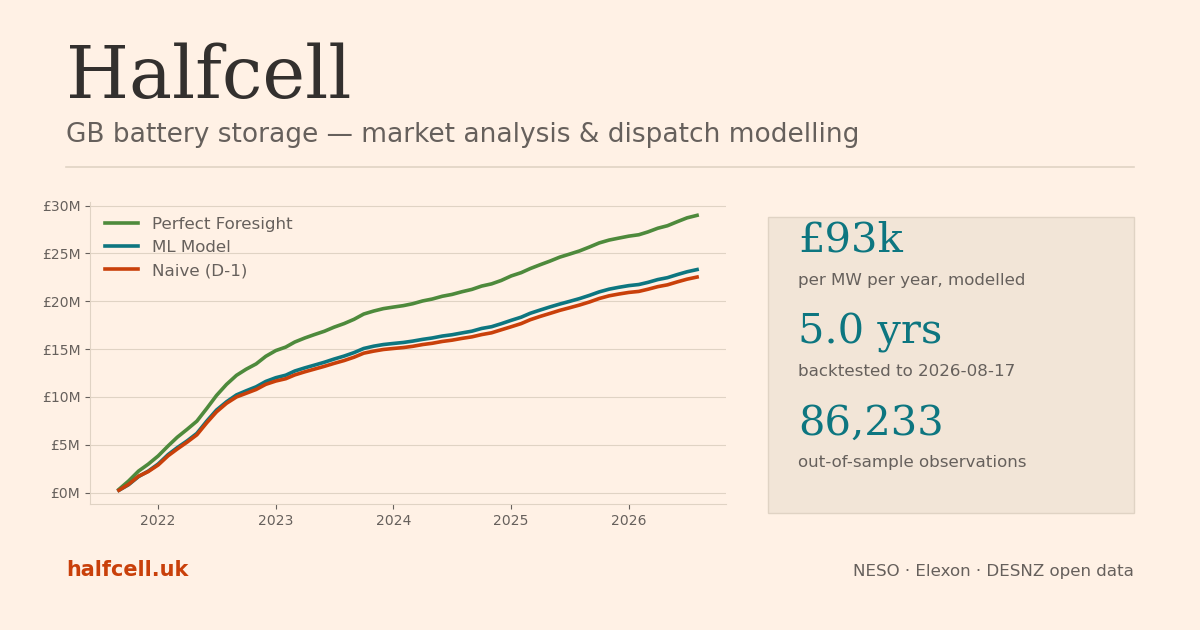
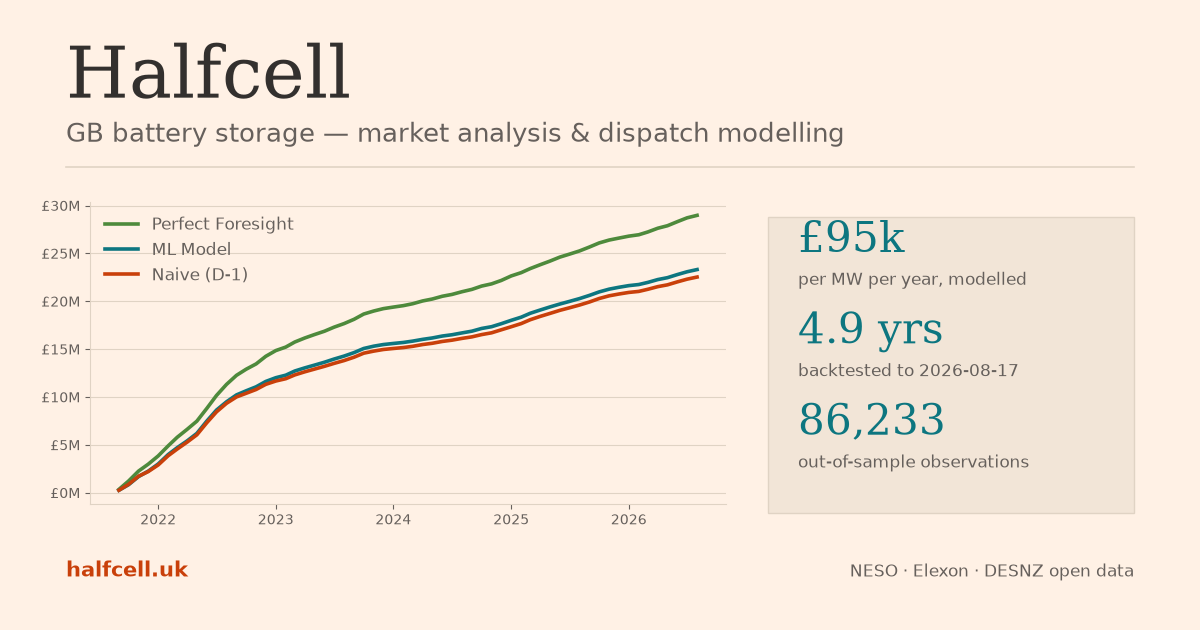
Annualise on days backtested, and say what the foresight ratio is not
Four corrections found in an audit of the methodology page.

Annualisation divided by months touched (len(monthly)/12), so a window
running 2021-09-16 to 2026-08-17 counted two part-months as whole ones and
divided 1797 days of revenue by 5.00 years instead of 4.92. Every published
figure was about 1.6% low. run_strategy now passes the days it actually
backtested and the divisor is days/365.25, with days_covered recorded in the
summary; the site's interactive page counts the same days, clipping each
month to the backtest window rather than assuming whole months. The cache
manifest's derived fields and the OG card are regenerated; totals, breakdowns
and params are untouched, and every ratio is unchanged because the bias was
uniform. ML minus naive now reads £3.18k/MW/yr from the manifest, matching
what the daily block bootstrap already reported independently.

compare_offer_valuation.py keeps the month-count divisor, now documented: its
runs all share a window, so the bias cancels exactly in the comparisons and
ratios it publishes, and changing it would mean re-running every backtest
behind the committed reports for no change in any conclusion.

The foresight ratio was measured against "70-85% in the literature", which
is uncited and is not the same measurement. The industry's Percent of
Perfect subtracts no floor; on it this model scores 80.5% on the full stack
and 50.1% on arbitrage alone. The naive floor alone scores 77.8%, which is
[…]

diff --git a/src/analysis/revenue_stack.py b/src/analysis/revenue_stack.py
@@ -432,6 +432,7 @@ def _build_result(
     avg_arb_mw: float,
     soc_traj: list,
     extras: dict | None = None,
+    days_covered: int | None = None,
 ) -> dict:
     """
     Merge ancillary and arbitrage monthly streams, apply availability factor,
@@ -465,7 +466,11 @@ def _build_result(
     monthly["cycling_cost"]  = monthly[cost_cols].sum(axis=1) if cost_cols else 0.0
     monthly["net_revenue"]   = monthly["gross_revenue"] - monthly["cycling_cost"]
 
-    years     = len(monthly) / 12
+    # Days actually backtested, not months touched. A window that starts on the 16th
+    # and ends on the 17th contributes two part-months of revenue; counting them as
+    # two whole months divides that revenue by more time than it earned in, which put
+    # every annualised figure about 1.6% low over the published 2021-2026 window.
+    years     = (days_covered / 365.25) if days_covered else len(monthly) / 12
     net_total = monthly["net_revenue"].sum()
 
     breakdown = {}
@@ -478,6 +483,7 @@ def _build_result(
         "total_cycling_cost": round(monthly["cycling_cost"].sum(), 0),
         "total_net":          round(net_total, 0),
         "years_covered":      round(years, 2),
+        "days_covered":       int(days_covered) if days_covered else None,
         "annualised_net":     round(net_total / years, 0) if years > 0 else 0,
         "annualised_per_mw":  round(net_total / years / battery.power_mw, 0) if years > 0 and battery.power_mw > 0 else 0,
         "breakdown":          breakdown,
@@ -1296,7 +1302,8 @@ def run_strategy(
         "plan_smoothing":      plan_smoothing,
         "dispatch_smoothing":  dispatch_smoothing,
     }
-    result = _build_result(anc_wide, imb_wide, battery, avg_fr_mw, avg_arb_mw, soc_traj, extras)
+    result = _build_result(anc_wide, imb_wide, battery, avg_fr_mw, avg_arb_mw, soc_traj, extras,
+                           days_covered=len(dates))
     result["schedule"] = schedule
     result["daily"] = daily_revenue
     return result

diff --git a/tests/test_revenue_stack.py b/tests/test_revenue_stack.py
@@ -488,3 +488,21 @@ def test_lp_valued_offers_keep_free_the_side_trading_needs_at_each_hour():
     assert formula.loc[morning, "q_DCH"].tolist() == pytest.approx(formula.loc[evening, "q_DCH"].tolist())
     assert lp.loc[morning, "q_DCH"].sum() < lp.loc[evening, "q_DCH"].sum()
     assert lp.loc[evening, "q_DCL"].sum() < lp.loc[morning, "q_DCL"].sum()
+
+
+def test_annualisation_divides_by_days_backtested_not_months_touched():
+    """
+    A window that starts or ends mid-month contributes a part-month of revenue.
+    Counting the months touched would divide that revenue by more time than it
+    earned in — the five-day window below spans one month, so a month-count
+    divisor would annualise it as a twelfth of a year instead of 5/365.25,
+    understating £/MW/yr by a factor of about 6.
+    """
+    auctions, market = _auctions({d: {"DCL": 10.0} for d in DAYS}), _market_index(DAYS)
+    summary = run_backtest(auctions, market, BATTERY)["summary"]
+
+    assert summary["days_covered"] == len(DAYS)
+    assert summary["years_covered"] == pytest.approx(len(DAYS) / 365.25, abs=0.005)
+    assert summary["annualised_net"] == pytest.approx(
+        summary["total_net"] / (len(DAYS) / 365.25), rel=1e-3)
+    assert summary["annualised_per_mw"] == pytest.approx(summary["annualised_net"] / P, rel=1e-3)

diff --git a/scripts/compare_offer_valuation.py b/scripts/compare_offer_valuation.py
@@ -178,6 +178,11 @@ def split_revenue(monthly: pd.DataFrame, power_mw: float, select_before: str) ->
                        ("selection", months < pd.Timestamp(select_before)),
                        ("confirmation", months >= pd.Timestamp(select_before))):
         m = monthly[mask.to_numpy()]
+        # Months, not days: the first and last are partial, so this runs about 1.6%
+        # low against revenue_stack's day-based divisor. Every run in a report shares
+        # the window, so the bias scales all of them alike and cancels exactly in the
+        # comparisons and foresight ratios below. Left as is to keep the committed
+        # reports comparable without re-running every backtest behind them.
         years = len(m) / 12
         if years == 0:
             out[half] = None

diff --git a/site/src/methodology.md b/site/src/methodology.md
@@ -350,8 +350,13 @@ morning, and the hourly day-ahead auctions for D have already cleared (results b
 model uses neither, so its offer-stage information is conservative.
 
 The **foresight ratio** measures how much of the gap between those two bounds a forecast
-closes: `(ML − Naive) / (Perfect Foresight − Naive)`, on net revenue. Published GB and
-European price-forecasting literature treats 70–85% as strong performance.
+closes: `(ML − Naive) / (Perfect Foresight − Naive)`, on net revenue. The industry's usual
+measure is a different one — Percent of Perfect, revenue as a share of perfect foresight with
+no floor subtracted — on which this model scores 80.5% across the full stack and 50.1% on
+arbitrage alone. The harder ratio is reported here because on a stacked battery Percent of
+Perfect says very little: reusing the last complete day's prices already scores 77.8%, since
+most of the revenue is frequency response availability that no forecast moves. Subtracting the
+floor asks the narrower question of how much of the *capturable* gap a forecast closes.
 
 Three things have moved this number, and all are worth knowing about.
 
@@ -372,10 +377,11 @@ worth about £4k/MW/yr to naive and £1k to the model. The model's lead over nai
 £4.1k to £3.2k while the ceiling pulled away, and the ratio fell to about 12%. A better engine
 made the forecast matter less; it did not make the forecast worse.
 
-Published figures of 70–85% come from studies forecasting day-ahead auction prices over
-shorter, calmer windows, usually scored on pure arbitrage rather than a co-optimisation
-against frequency response contracts. The honest headline here is that the forecast is worth
-about £3k/MW/yr over the floor, in every year of the backtest, against a ceiling £26k above it.
+On the arbitrage-only footing, which is the closest thing to what a price-forecasting study
+scores, Percent of Perfect is 50.1% against the naive floor's 37.9% — a real gap, and a
+smaller one than the capture rates such studies usually report. The honest headline is that
+the forecast is worth about £3k/MW/yr over the floor, in every year of the backtest, against a
+ceiling £26k above it.
 
 **How much of that is noise?** Enough of it is not. Resampling the paired daily revenue
 differences in four-week blocks — blocks, because a dispatch decision carries state into the
@@ -628,9 +634,13 @@ accuracy column and earns £19k/MW/yr *less than reusing yesterday's prices*.
 The cause is calibration in the one dimension dispatch consumes. LEAR over-predicts the daily
 price spread by £272/MWh across the backtest and by £29.5 even in the calm recent market, while
 the trees under-predict it — Random Forest by £31.5. For a price-taker battery that asymmetry
-is protective. A spread that fails to materialise costs money twice: once in the trade itself,
-and again at the offer stage, where an inflated shadow arbitrage value makes the model decline
-frequency response contracts worth having. Over 2025 onward, LEAR held 23 MW of Low products
+is protective. A spread that fails to materialise does its damage at the offer stage, where an
+inflated shadow arbitrage value makes the model decline frequency response contracts worth
+having; dispatch is barely touched, because it trades on the *ordering* of periods and settles
+at whatever the price turns out to be (see
+[why only the offer](#scepticism-in-the-offer-the-optimisers-curse)). What over-prediction
+costs there is the extra cycling it talks the optimiser into, when a spread it expected to
+clear wear and round-trip losses does not. Over 2025 onward, LEAR held 23 MW of Low products
 against Random Forest's 30, sat out 30% of EFA blocks against 12%, and gave up £0.71M of
 availability revenue to gain £0.07M of trading revenue while cycling 48% more energy.
 
@@ -671,9 +681,9 @@ split reads:
 
 | £k / MW / yr, current engine | Frequency response | Trading | Wear | Net |
 |---|---|---|---|---|
-| Perfect foresight | 50.7 | 68.4 | −3.2 | 115.9 |
-| Naive | 57.5 | 35.2 | −2.5 | 90.1 |
-| ML model | 59.6 | 35.9 | −2.2 | 93.3 |
+| Perfect foresight | 51.6 | 69.5 | −3.3 | 117.8 |
+| Naive | 58.4 | 35.7 | −2.5 | 91.6 |
+| ML model | 60.6 | 36.5 | −2.3 | 94.8 |
 
 The model now edges naive at trading (+£0.7k) but still earns most of its lead through
 response (+£2.1k), and the whole of perfect foresight's advantage is still trading.

diff --git a/README.md b/README.md
@@ -19,14 +19,22 @@ Annualised net revenue per MW:
 
 | Strategy | Full stack | Arbitrage only | What it represents |
 |---|---|---|---|
-| Perfect Foresight | £115.9k | £62.5k | Theoretical ceiling; requires knowing day-D prices |
-| **ML (Random Forest)** | **£93.3k** | **£31.3k** | Realistic case: every forecast out-of-sample, from data that existed at each decision |
-| Naive (last complete day) | £90.1k | £23.7k | The floor; any real forecast must beat it |
-| FR only | £82.2k | — | A site that ignores arbitrage entirely |
+| Perfect Foresight | £117.8k | £63.5k | Theoretical ceiling; requires knowing day-D prices |
+| **ML (Random Forest)** | **£94.8k** | **£31.8k** | Realistic case: every forecast out-of-sample, from data that existed at each decision |
+| Naive (last complete day) | £91.6k | £24.1k | The floor; any real forecast must beat it |
+| FR only | £83.5k | — | A site that ignores arbitrage entirely |
 
 - **Foresight ratio 12%** — the share of the naive-to-perfect gap the forecast closes,
   `(ML − Naive) / (PF − Naive)`. It sits at 10% through the 2021–22 gas crisis and 14% from
-  2023 onward, and the forecast beats naive in every year of the backtest.
+  2023 onward, and the forecast beats naive in every year of the backtest. The industry's
+  usual measure, Percent of Perfect, subtracts no floor and reads 80.5% here — but the naive
+  floor alone reads 77.8% on it, which is why the harder ratio is the one reported.
+- **The money is significant; the accuracy is not.** Resampling the paired daily revenue
+  differences in four-week blocks puts the forecast's lead at £3.18k/MW/yr, 95% interval
+  £2.05k to £4.37k, and £1.79k [£0.88k, £2.76k] on the folds from 2025 alone. Its accuracy
+  edge over persistence is not distinguishable from noise: Diebold-Mariano returns p = 0.26 on
+  squared error and p = 0.19 on the error in the day's spread. What the forecast is worth, it
+  earns through capacity allocation rather than through precision.
 - **Offers are priced by planning the day.** Each day's response offers are chosen together
   with a half-hourly trading plan, so a MW held back costs what it takes out of that plan.
   That replaced a block-by-block estimate and added £7–12k/MW/yr to every strategy — more
@@ -37,8 +45,8 @@ Annualised net revenue per MW:
   period, which put this same ratio at 66% — the gap between those two numbers is what
   in-sample forecasting is worth, and it is not small. Forecasts are also used only once the
   data behind them exists: offers made at 14:00 on the day before see data to two days before.
-- **Frequency response dominates the stack.** FR only earns £82.2k of the ML strategy's
-  £93.3k, so arbitrage is the margin rather than the business — and what the forecast adds
+- **Frequency response dominates the stack.** FR only earns £83.5k of the ML strategy's
+  £94.8k, so arbitrage is the margin rather than the business — and what the forecast adds
   still arrives mostly through better capacity allocation, not better trading.
 - **The battery stays compliant.** It starts 0.4–0.6% of settlement periods outside the
   state-of-energy range its contracts require, and almost every one is a single half-hour at
@@ -143,7 +151,7 @@ half-hourly delivery table is committed.
 
 ```bash
 pip install -r requirements.txt -r requirements-dev.txt
-pytest -m "not integration"     # 201 tests, no network — what CI runs
+pytest -m "not integration"     # 303 tests, no network — what CI runs
 pytest -m integration           # live NESO + Elexon contract checks
 pytest --cov=src tests/         # with coverage
 ```

diff --git a/site/src/backtester.md b/site/src/backtester.md
@@ -341,7 +341,16 @@ function summarise(rows, mw) {
   const cyc = d3.sum(rows, (d) => d.cycling_cost_gbp + d.delivery_cycling_cost_gbp);
   const gross = d3.sum(Object.values(svc)) + arb;
   const net = gross - cyc;
-  const years = rows.length / 12;
+  // Days each month actually contributes, clipped to the backtest window. The first
+  // and last months are partial (the window runs 2021-09-16 to 2026-08-17), so
+  // counting whole months divides part-month revenue by a full month of time.
+  const DAY = 86400000;
+  const days = d3.sum(rows, (d) => {
+    const lo = Math.max(d.month_dt, bounds[0]);
+    const hi = Math.min(d3.utcMonth.offset(d.month_dt, 1) - DAY, bounds[1]);
+    return Math.max(0, (hi - lo) / DAY + 1);
+  });
+  const years = days / 365.25;
   // Negative streams are kept: FR services can clear below zero, and filtering
   // them out would hide that from the breakdown table and the revenue stack.
   const breakdown = Object.fromEntries(
@@ -581,8 +590,13 @@ close it gets to the ceiling.</p>
 halfway towards its daily mean, a setting chosen on the years before 2025. That one parameter
 is worth about £4k/MW/yr to it, which makes it a stronger and fairer benchmark.</p>
 <p>The <b>foresight ratio</b> quantifies this as a fraction of the capturable improvement:
-<code>(ML − Naive) / (PF − Naive)</code>. Published GB and European price-forecasting
-literature treats 70–85% as strong performance.</p>
+<code>(ML − Naive) / (PF − Naive)</code>. The industry's usual measure, Percent of Perfect,
+subtracts no floor and reads 80.5% here — but the naive floor alone reads 77.8% on it, because
+most of the revenue is frequency response availability that no forecast moves. The harder
+ratio is the one reported for that reason.</p>
+<p>Resampled in four-week blocks, the model's lead is £3.18k/MW/yr with a 95% interval of
+£2.05k to £4.37k. Its <i>accuracy</i> edge over persistence is not distinguishable from noise
+(Diebold-Mariano p = 0.26 on squared error); what it is worth, it earns through allocation.</p>
 <p>It is a share of the <i>capturable</i> gap, so it moves when that gap moves: charging the
 model for the energy its contracts deliver lifted the floor towards the ceiling. The bigger
 shift came from retraining. While a single fixed split left most of the backtest forecast by a
